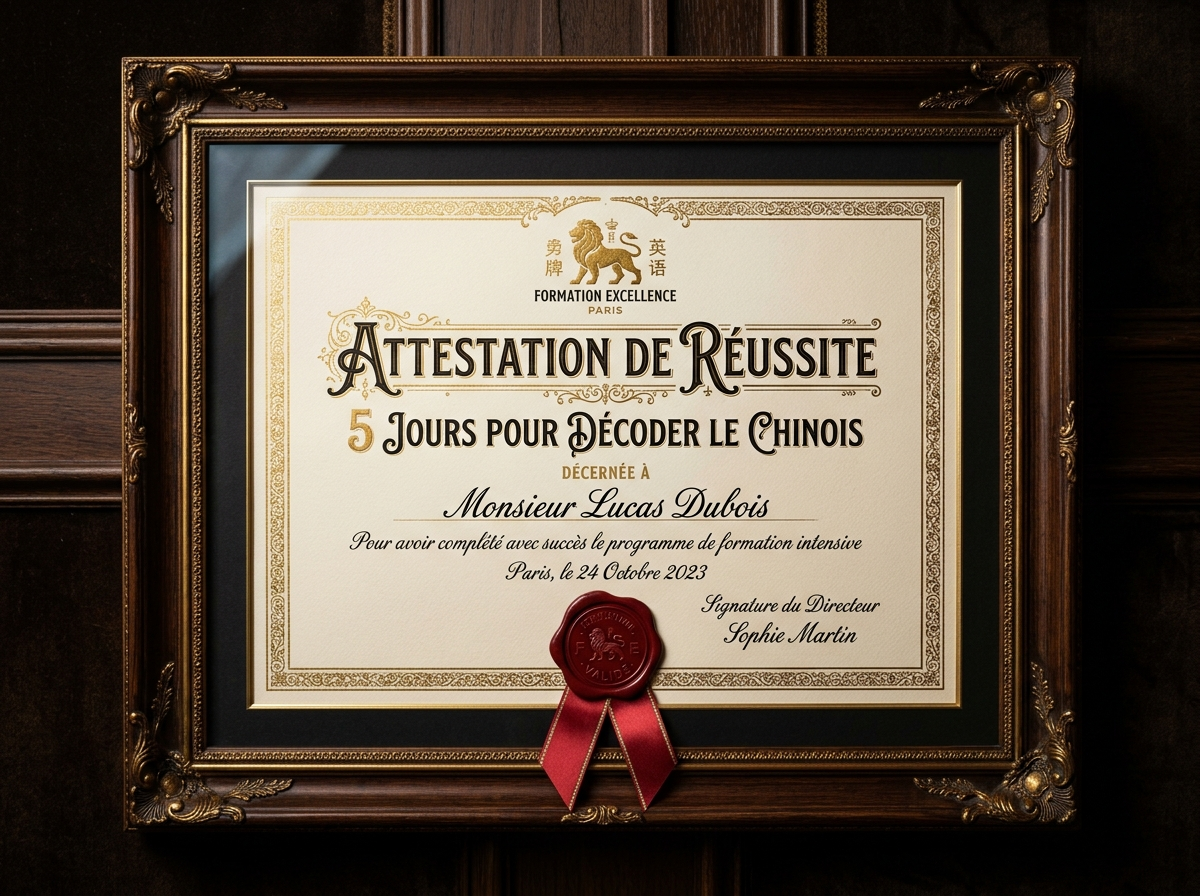
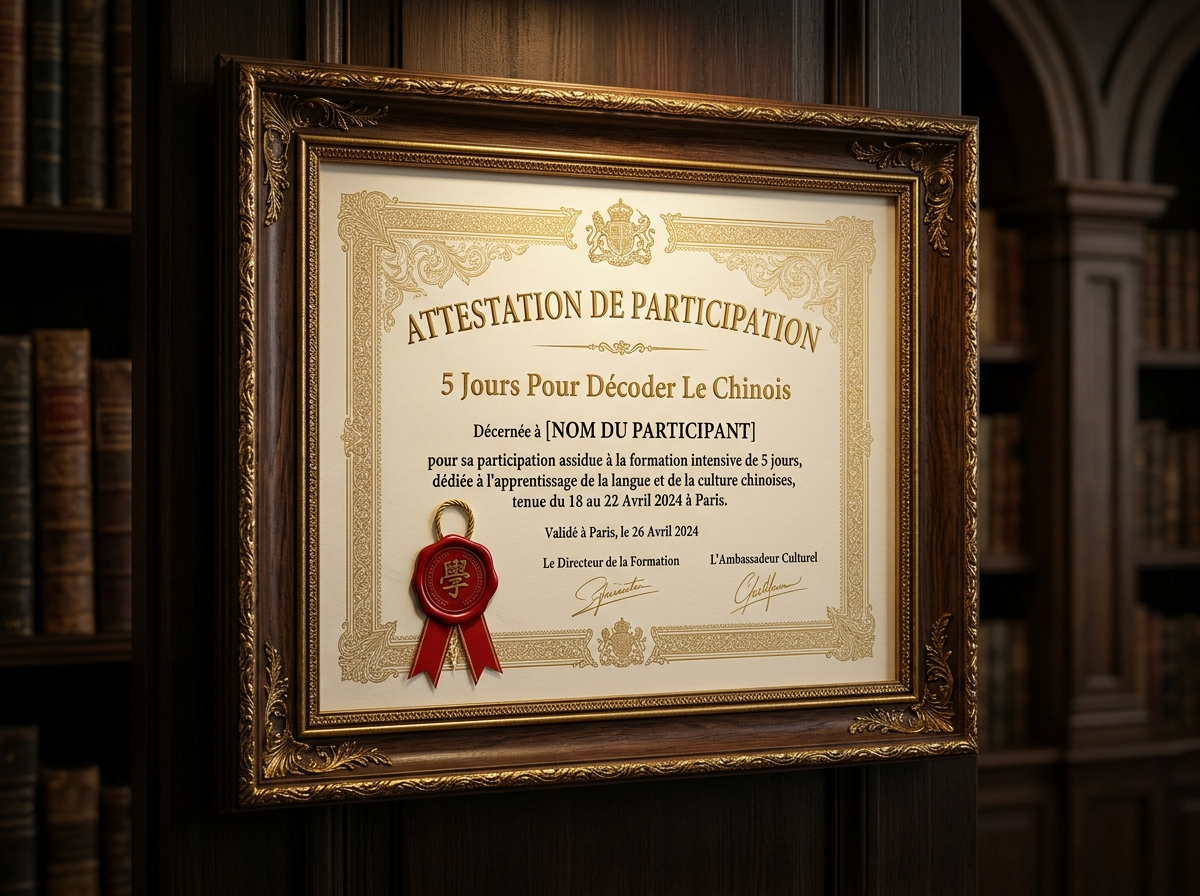
fix: harmonisation exclusive attestation de participation (visuel officiel et textes)

diff --git a/index.html b/index.html
@@ -1249,7 +1249,7 @@
             <div class="w-full aspect-[4/3] rounded-2xl overflow-hidden bg-bgDark/90 border border-white/[0.06] mb-5 p-2 flex items-center justify-center group-hover:border-gold/30 transition-colors">
               <img 
                 src="images/bonus-certificat.jpg" 
-                alt="Attestation Officielle de Réussite - Espoir Chinois" 
+                alt="Attestation Officielle de Participation - Espoir Chinois" 
                 class="w-full h-full object-cover rounded-xl group-hover:scale-105 transition-transform duration-500"
                 loading="lazy"
               >
@@ -1259,13 +1259,13 @@
               Attestation officielle de participation
             </h3>
             <p class="text-xs sm:text-sm text-textMuted leading-relaxed mb-4">
-              Certificat officiel nominatif délivré à l'issue des 5 jours attestant de ton assiduité, de ta maîtrise des bases et de ta réussite au programme.
+              Certificat officiel nominatif délivré à l'issue des 5 jours attestant de ton assiduité, de ton engagement et de ta participation active au programme.
             </p>
           </div>
 
           <div class="pt-3.5 border-t border-white/[0.06] flex items-center gap-2 text-xs font-mono text-gold">
             <i data-lucide="award" class="w-4 h-4 flex-shrink-0"></i>
-            <span>Certificat nominatif officiel</span>
+            <span>Attestation nominative officielle</span>
           </div>
         </div>
 
